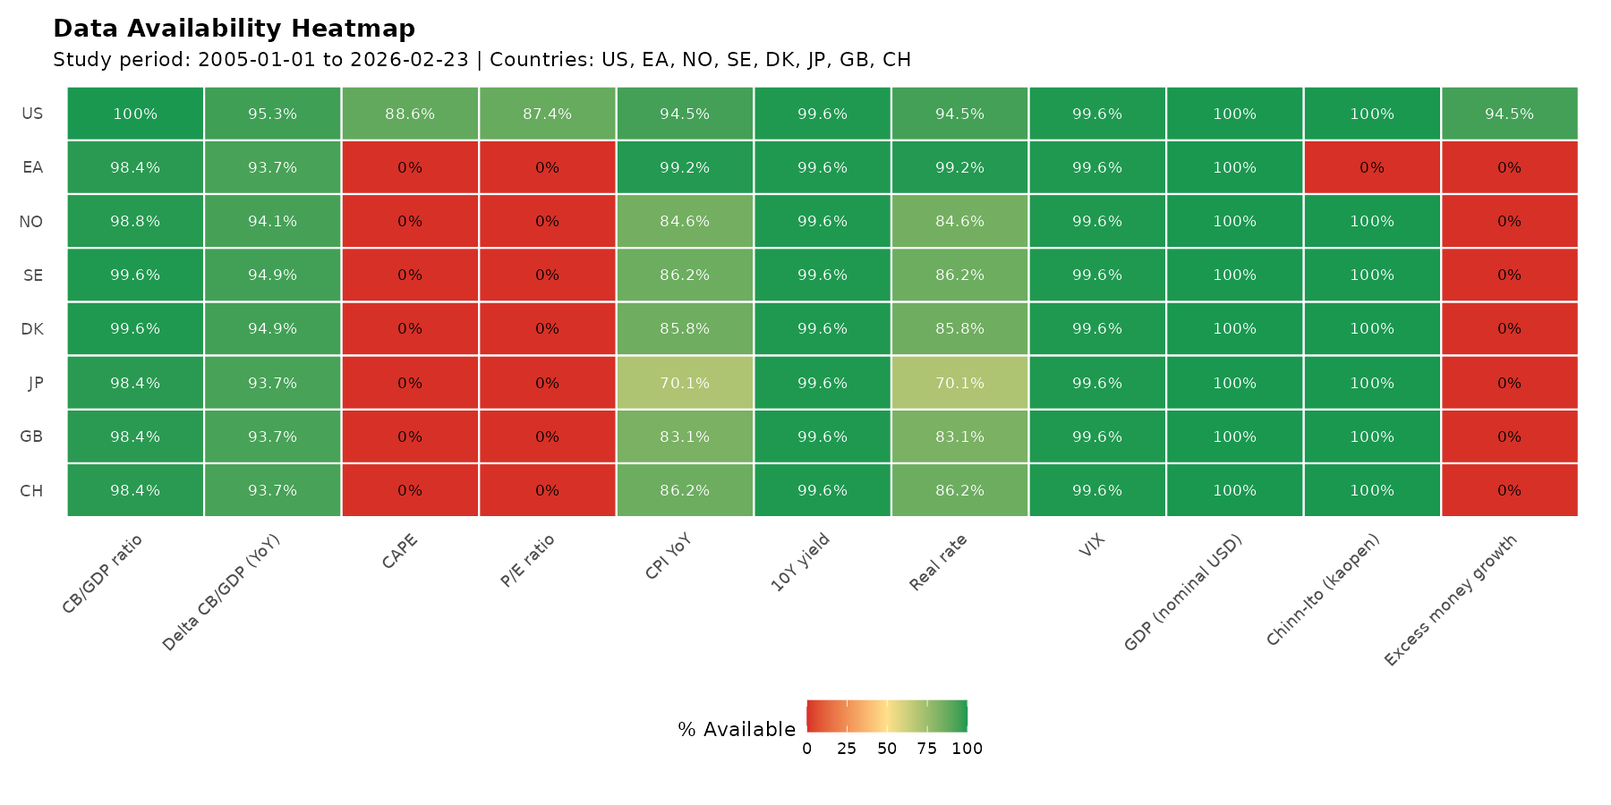
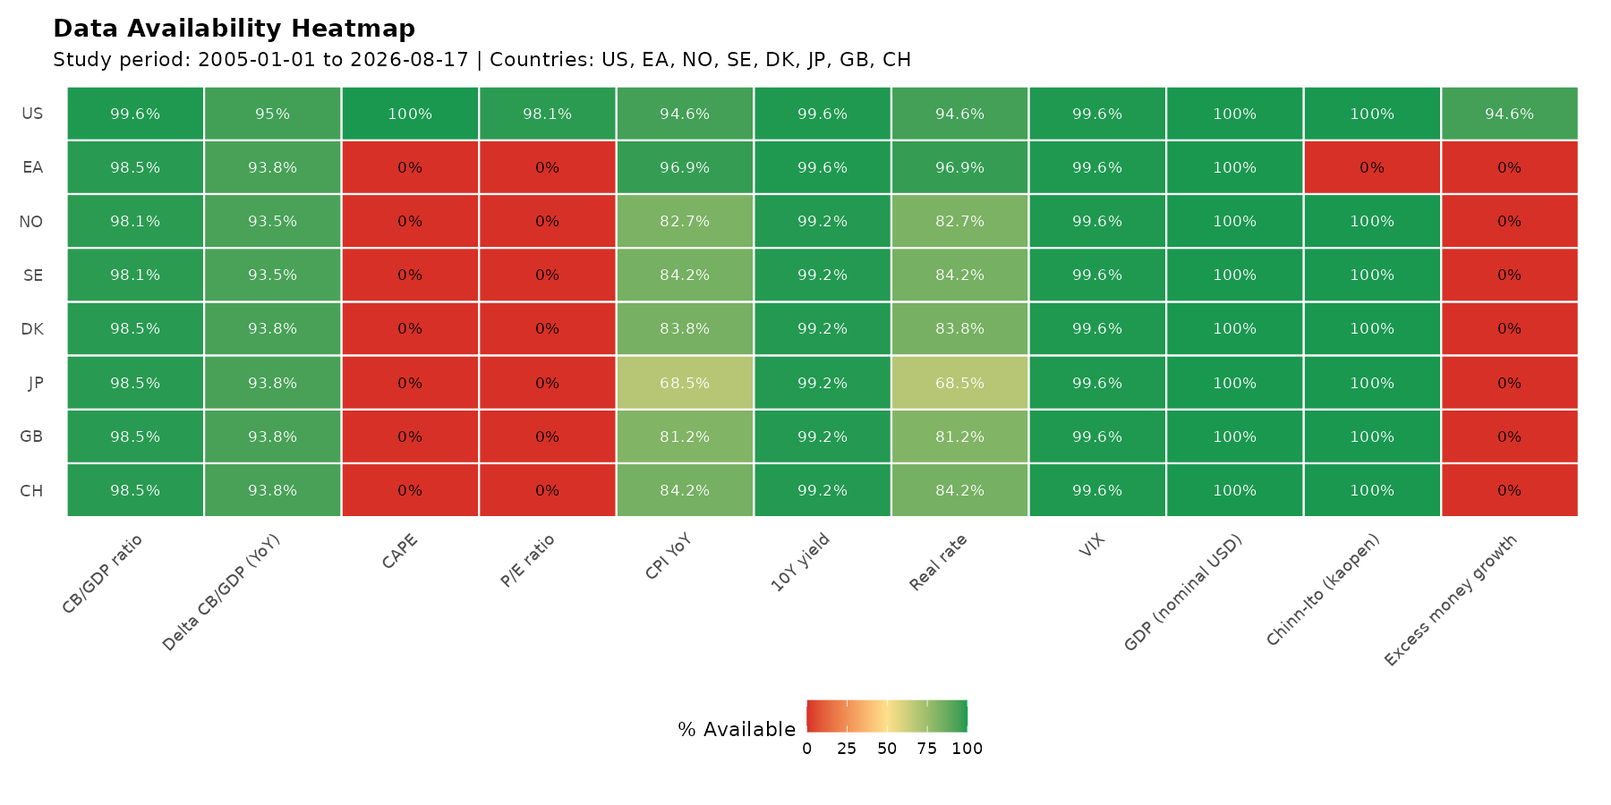
Refresh data pipeline and update Section 10 with current sample
Re-ran scripts 01-05 (macro/equity/controls collection) and 11 (US
regressions), extending the panel from Feb 2026 to Aug 2026 (2,080 rows,
260 months). Fixed a stale-URL bug in the Shiller CAPE fetch that had
silently frozen the US CAPE series at 2023-09 since project start; it
now tracks the live shillerdata.com source through 2026-08.

Updated DATA_REPORT.md header, Section 5 (panel dimensions), Section 6
(availability tables), and Section 10 (US OLS + local projection) to
match. The local projection finding changed qualitatively on the longer
sample — flagged explicitly in the text and caveats rather than silently
replaced.

Changed region(s): [[0.1556, 0.0622, 0.4044, 0.1867], [0.0622, 0.1244, 0.0933, 0.1556]]

diff --git a/output/logs/us_ols_table.html b/output/logs/us_ols_table.html
@@ -5,32 +5,32 @@
 <tr><td style="text-align:left"></td><td colspan="3">CAPE</td><td>CAPE</td></tr>
 <tr><td style="text-align:left"></td><td>(1) Level</td><td>(2)</td><td>Delta; CB/GDP</td><td>(3) + Trend</td></tr>
 <tr><td style="text-align:left"></td><td>(1)</td><td>(2)</td><td>(3)</td><td>(4)</td></tr>
-<tr><td colspan="5" style="border-bottom: 1px solid black"></td></tr><tr><td style="text-align:left">CB/GDP ratio (%)</td><td>0.948<sup>**</sup></td><td></td><td>-0.437</td><td></td></tr>
-<tr><td style="text-align:left"></td><td>(0.431)</td><td></td><td>(0.404)</td><td></td></tr>
+<tr><td colspan="5" style="border-bottom: 1px solid black"></td></tr><tr><td style="text-align:left">CB/GDP ratio (%)</td><td>1.719<sup>***</sup></td><td></td><td>-0.844</td><td></td></tr>
+<tr><td style="text-align:left"></td><td>(0.502)</td><td></td><td>(0.534)</td><td></td></tr>
 <tr><td style="text-align:left"></td><td></td><td></td><td></td><td></td></tr>
-<tr><td style="text-align:left">CB/GDP (YoY pp)</td><td></td><td>1.286</td><td></td><td>0.311<sup>***</sup></td></tr>
-<tr><td style="text-align:left"></td><td></td><td>(0.888)</td><td></td><td>(0.093)</td></tr>
+<tr><td style="text-align:left">CB/GDP (YoY pp)</td><td></td><td>0.445</td><td></td><td>0.273<sup>**</sup></td></tr>
+<tr><td style="text-align:left"></td><td></td><td>(1.280)</td><td></td><td>(0.107)</td></tr>
 <tr><td style="text-align:left"></td><td></td><td></td><td></td><td></td></tr>
-<tr><td style="text-align:left">Real 10Y rate (%)</td><td>-0.420</td><td>-1.398<sup>**</sup></td><td>-0.159</td><td>-0.018</td></tr>
-<tr><td style="text-align:left"></td><td>(0.928)</td><td>(0.624)</td><td>(0.927)</td><td>(0.055)</td></tr>
+<tr><td style="text-align:left">Real 10Y rate (%)</td><td>1.676</td><td>0.033</td><td>-0.073</td><td>0.042</td></tr>
+<tr><td style="text-align:left"></td><td>(1.045)</td><td>(0.943)</td><td>(0.694)</td><td>(0.071)</td></tr>
 <tr><td style="text-align:left"></td><td></td><td></td><td></td><td></td></tr>
-<tr><td style="text-align:left">CPI inflation YoY (%)</td><td>0.003</td><td>-0.788</td><td>0.061</td><td>-0.021</td></tr>
-<tr><td style="text-align:left"></td><td>(0.824)</td><td>(0.513)</td><td>(0.867)</td><td>(0.083)</td></tr>
+<tr><td style="text-align:left">CPI inflation YoY (%)</td><td>1.612</td><td>0.318</td><td>0.079</td><td>0.043</td></tr>
+<tr><td style="text-align:left"></td><td>(0.996)</td><td>(0.791)</td><td>(0.726)</td><td>(0.096)</td></tr>
 <tr><td style="text-align:left"></td><td></td><td></td><td></td><td></td></tr>
-<tr><td style="text-align:left">Real GDP growth YoY (%)</td><td>0.390<sup>*</sup></td><td>0.707<sup>***</sup></td><td>0.371</td><td>-0.050</td></tr>
-<tr><td style="text-align:left"></td><td>(0.222)</td><td>(0.191)</td><td>(0.257)</td><td>(0.045)</td></tr>
+<tr><td style="text-align:left">Real GDP growth YoY (%)</td><td>0.475<sup>*</sup></td><td>0.812<sup>**</sup></td><td>0.378</td><td>-0.056</td></tr>
+<tr><td style="text-align:left"></td><td>(0.266)</td><td>(0.327)</td><td>(0.272)</td><td>(0.049)</td></tr>
 <tr><td style="text-align:left"></td><td></td><td></td><td></td><td></td></tr>
-<tr><td style="text-align:left">VIX</td><td>-0.197<sup>***</sup></td><td>-0.240<sup>***</sup></td><td>-0.159<sup>***</sup></td><td>-0.072<sup>***</sup></td></tr>
-<tr><td style="text-align:left"></td><td>(0.035)</td><td>(0.047)</td><td>(0.030)</td><td>(0.014)</td></tr>
+<tr><td style="text-align:left">VIX</td><td>-0.175<sup>***</sup></td><td>-0.192<sup>***</sup></td><td>-0.145<sup>***</sup></td><td>-0.075<sup>***</sup></td></tr>
+<tr><td style="text-align:left"></td><td>(0.044)</td><td>(0.072)</td><td>(0.028)</td><td>(0.014)</td></tr>
 <tr><td style="text-align:left"></td><td></td><td></td><td></td><td></td></tr>
-<tr><td style="text-align:left">Time trend (years)</td><td></td><td></td><td>0.712<sup>***</sup></td><td></td></tr>
-<tr><td style="text-align:left"></td><td></td><td></td><td>(0.168)</td><td></td></tr>
+<tr><td style="text-align:left">Time trend (years)</td><td></td><td></td><td>0.907<sup>***</sup></td><td></td></tr>
+<tr><td style="text-align:left"></td><td></td><td></td><td>(0.108)</td><td></td></tr>
 <tr><td style="text-align:left"></td><td></td><td></td><td></td><td></td></tr>
-<tr><td style="text-align:left">Constant</td><td>23.694<sup>***</sup></td><td>29.770<sup>***</sup></td><td>22.880<sup>***</sup></td><td>1.608<sup>***</sup></td></tr>
-<tr><td style="text-align:left"></td><td>(4.496)</td><td>(2.711)</td><td>(4.369)</td><td>(0.252)</td></tr>
+<tr><td style="text-align:left">Constant</td><td>15.118<sup>***</sup></td><td>26.745<sup>***</sup></td><td>22.719<sup>***</sup></td><td>1.591<sup>***</sup></td></tr>
+<tr><td style="text-align:left"></td><td>(5.106)</td><td>(3.407)</td><td>(3.562)</td><td>(0.280)</td></tr>
 <tr><td style="text-align:left"></td><td></td><td></td><td></td><td></td></tr>
-<tr><td colspan="5" style="border-bottom: 1px solid black"></td></tr><tr><td style="text-align:left">Observations</td><td>213</td><td>213</td><td>213</td><td>213</td></tr>
-<tr><td style="text-align:left">R<sup>2</sup></td><td>0.620</td><td>0.591</td><td>0.717</td><td>0.379</td></tr>
-<tr><td style="text-align:left">Adjusted R<sup>2</sup></td><td>0.611</td><td>0.581</td><td>0.709</td><td>0.364</td></tr>
+<tr><td colspan="5" style="border-bottom: 1px solid black"></td></tr><tr><td style="text-align:left">Observations</td><td>246</td><td>246</td><td>246</td><td>246</td></tr>
+<tr><td style="text-align:left">R<sup>2</sup></td><td>0.548</td><td>0.349</td><td>0.796</td><td>0.331</td></tr>
+<tr><td style="text-align:left">Adjusted R<sup>2</sup></td><td>0.538</td><td>0.335</td><td>0.791</td><td>0.317</td></tr>
 <tr><td colspan="5" style="border-bottom: 1px solid black"></td></tr><tr><td style="text-align:left"><em>Note:</em></td><td colspan="4" style="text-align:right">Newey-West HAC standard errors (12-month bandwidth) in parentheses.</td></tr>
 </table>

diff --git a/DATA_REPORT.md b/DATA_REPORT.md
@@ -1,8 +1,8 @@
 # QE and Equity Valuations: Data Collection Report
 
-**Date:** 2026-02-23
-**Pipeline version:** Scripts 01–10 complete (equity event study done; yield event study data collection in progress)
-**Status:** Panel ready for regression — non-US historical CAPE series outstanding
+**Date:** 2026-08-17 (data refresh; original analysis 2026-02-23)
+**Pipeline version:** Scripts 01–11 complete
+**Status:** Panel ready for regression — non-US historical CAPE series still outstanding (unchanged since Feb 2026)
 
 ---
 
@@ -152,8 +152,8 @@ All series are monthly from FRED or ECB. The OECD yield and CPI series (added in
 
 The final panel (`panel_monthly.rds`, `panel_monthly.csv`) covers:
 
-- **Dimensions:** 2,032 rows (8 countries × 254 months), 52 columns
-- **Period:** 2005-01-01 to 2026-02-01
+- **Dimensions:** 2,080 rows (8 countries × 260 months), 52 columns
+- **Period:** 2005-01-01 to 2026-08-01
 
 ### Key Derived Variables
 
@@ -172,42 +172,44 @@ The final panel (`panel_monthly.rds`, `panel_monthly.csv`) covers:
 
 ## 6. Data Availability
 
-The heatmap below summarises the percentage of non-missing observations for key variables across all countries and the full study period. The most recent pipeline run added 12 new FRED series (6 OECD yields + 6 OECD CPI indices), substantially improving coverage.
+The heatmap below summarises the percentage of non-missing observations for key variables across all countries and the full study period. The pipeline was refreshed on 2026-08-17, extending the panel from Feb 2026 to Aug 2026 (six additional months of BIS/FRED/ECB/World Bank data) and fixing a stale-URL bug in the Shiller CAPE fetch (Section 4.2) that had silently frozen the US CAPE series at 2023-09 since the project began — US CAPE now runs current to 2026-08.
 
 ![Data Availability Heatmap](output/figures/availability_heatmap.png)
 
 **How to read this figure:** Each row is a variable (e.g. CB/GDP ratio, CAPE), each column is a country. The colour shade indicates what fraction of monthly observations are non-missing: dark = complete coverage, white/light = mostly missing. The CAPE rows being almost entirely white for non-US countries reflect the key data gap described in Section 9.
 
-### Summary by Variable (updated 2026-02-23)
+### Summary by Variable (updated 2026-08-17)
 
-| Variable | Overall Coverage | Change from prior run | Notes |
+| Variable | Overall Coverage | Change from prior run (2026-02-23) | Notes |
 |----------|-----------------|----------------------|-------|
-| CB/GDP ratio | **99%** | — | Solid across all 8 countries |
-| Delta CB/GDP (YoY) | **94%** | — | 12-month lag reduces early coverage |
+| CB/GDP ratio | **98.5%** | ↓ from 99% (fractional — recent months not yet fully populated by BIS) | Solid across all 8 countries |
+| Delta CB/GDP (YoY) | **93.9%** | ~flat (was 94%) | 12-month lag reduces early coverage |
 | GDP (nominal USD) | **100%** | — | Complete |
 | VIX | **99.6%** | — | Global series |
-| 10Y yield | **99.6%** | ↑ from 25% | Now all 8 countries via OECD/FRED |
-| Real rate | **86%** | ↑ from 24% | Derived from yield − CPI; gap = early CPI coverage |
-| CPI YoY | **86%** | ↑ from 95% overall (now per-country) | OECD indices; Japan 70% (series starts 2007) |
+| 10Y yield | **99.3%** | ~flat (was 99.6%) | All 8 countries via OECD/FRED |
+| Real rate | **84.5%** | ↓ from 86% (denominator grew faster than early-period CPI backfill) | Derived from yield − CPI; gap = early CPI coverage |
+| CPI YoY | **84.5%** | ↓ from 86% | OECD indices; Japan 68.5% (series starts 2007) |
 | Chinn-Ito (kaopen) | **87.5%** | — | EA not in index |
-| CAPE | **11%** | — | US only (Shiller 2005–2023) |
-| P/E ratio | **11%** | — | US only |
-| Excess money growth | **12%** | — | US, JP, GB only |
+| CAPE | **12.5%** | ↑ from 11% | US only, but now current to 2026-08 (was frozen at 2023-09 — see Section 4.2) |
+| P/E ratio | **12.3%** | ↑ from 11% | US only |
+| Excess money growth | **11.8%** | ~flat (was 12%) | US, JP, GB only |
 
-### Country-Level Coverage of Key Variables (updated)
+Most small declines above are a mechanical consequence of extending the panel by six months into a period where some cross-country series (CPI, real rate) lag their release by 1–3 months rather than a data quality regression.
+
+### Country-Level Coverage of Key Variables (updated 2026-08-17)
 
 | Country | CB/GDP | CAPE | CPI YoY | 10Y yield | Real rate | Kaopen |
 |---------|--------|------|---------|-----------|-----------|--------|
-| US | 100% | **89%** | 94% | 100% | 94% | 100% |
-| EA | 98% | 0% | 99% | 100% | 99% | 0% |
-| NO | 99% | 0% | **85%** | **100%** | **85%** | 100% |
-| SE | 100% | 0% | **86%** | **100%** | **86%** | 100% |
-| DK | 100% | 0% | **86%** | **100%** | **86%** | 100% |
-| JP | 98% | 0% | **70%** | **100%** | **70%** | 100% |
-| GB | 98% | 0% | **83%** | **100%** | **83%** | 100% |
-| CH | 98% | 0% | **86%** | **100%** | **86%** | 100% |
+| US | 99.6% | **100%** | 94.6% | 99.6% | 94.6% | 100% |
+| EA | 98.5% | 0% | 96.9% | 99.6% | 96.9% | 0% |
+| NO | 98.1% | 0% | 82.7% | 99.2% | 82.7% | 100% |
+| SE | 98.1% | 0% | 84.2% | 99.2% | 84.2% | 100% |
+| DK | 98.5% | 0% | 83.8% | 99.2% | 83.8% | 100% |
+| JP | 98.5% | 0% | 68.5% | 99.2% | 68.5% | 100% |
+| GB | 98.5% | 0% | 81.2% | 99.2% | 81.2% | 100% |
+| CH | 98.5% | 0% | 84.2% | 99.2% | 84.2% | 100% |
 
-Bold entries changed from the previous run. The 10Y yield column went from 0% to 100% for six countries. Japan's CPI coverage is lower because the OECD series (`CPALTT01JPM657N`) begins in 2007; the 12-month lag for YoY computation reduces this further to ~70%.
+Bold entry is the one substantive change from the previous run: US CAPE coverage jumped from 89% to **100%** once the Shiller stale-URL bug (Section 4.2) was fixed — the US CAPE series now covers every month of the panel rather than stopping in 2023-09. All non-US CAPE cells remain 0%; this is the unresolved gap discussed in Section 12. Other columns shifted by low single-digit points from extending the panel six months, consistent with the release-lag explanation above.
 
 ---
 
@@ -515,7 +517,7 @@ The same estimation and event windows as the equity study are used: estimation w
 
 ### 10.1 Overview
 
-Script `11_regressions_us.R` runs the first formal regressions in the project, using the US-only subsample (213 months, January 2006 – September 2023). For the US, all required variables are available: CAPE (Shiller), CB/GDP ratio, real rate, CPI, GDP growth, and VIX.
+Script `11_regressions_us.R` runs the first formal regressions in the project, using the US-only subsample (246 months, January 2006 – July 2026; refreshed 2026-08-17 after fixing a stale-URL bug in the Shiller CAPE fetch that had previously frozen the series at 2023-09). For the US, all required variables are available: CAPE (Shiller), CB/GDP ratio, real rate, CPI, GDP growth, and VIX.
 
 These are **time series regressions for a single country** — they measure correlations, not causal effects. The results motivate the full cross-country panel strategy but should be interpreted cautiously. All standard errors use the **Newey-West HAC correction** with a 12-month lag bandwidth to account for serial correlation in monthly time series.
 
@@ -541,34 +543,34 @@ All specifications include real 10Y interest rate, CPI inflation (YoY), real GDP
                                           CAPE                              CAPE
                       (1) Level       (2) D.CB/GDP      (3) +Trend       (4) D.CAPE
 --------------------------------------------------------------------------------------
-CB/GDP ratio (%)       0.948**                            -0.437
-                       (0.431)                           (0.404)
+CB/GDP ratio (%)       1.719***                           -0.844
+                       (0.502)                           (0.534)
 
-D.CB/GDP (YoY pp)                        1.286                            0.311***
-                                        (0.888)                           (0.093)
+D.CB/GDP (YoY pp)                        0.445                            0.273**
+                                        (1.280)                           (0.107)
 
-Real 10Y rate (%)       -0.420          -1.398**          -0.159           -0.018
-                       (0.928)          (0.624)          (0.927)          (0.055)
+Real 10Y rate (%)       1.676            0.033            -0.073           0.042
+                       (1.045)          (0.943)          (0.694)          (0.071)
 
-CPI infl. YoY (%)       0.003            -0.788           0.061            -0.021
-                       (0.824)          (0.513)          (0.867)          (0.083)
+CPI infl. YoY (%)       1.612            0.318            0.079            0.043
+                       (0.996)          (0.791)          (0.726)          (0.096)
 
-GDP growth YoY (%)      0.390*          0.707***          0.371            -0.050
-                       (0.222)          (0.191)          (0.257)          (0.045)
+GDP growth YoY (%)      0.475*          0.812**           0.378            -0.056
+                       (0.266)          (0.327)          (0.272)          (0.049)
 
-VIX                   -0.197***        -0.240***        -0.159***        -0.072***
-                       (0.035)          (0.047)          (0.030)          (0.014)
+VIX                   -0.175***        -0.192***        -0.145***        -0.075***
+                       (0.044)          (0.072)          (0.028)          (0.014)
 
-Trend (yrs)                                              0.712***
-                                                         (0.168)
+Trend (yrs)                                              0.907***
+                                                         (0.108)
 
-Constant              23.694***        29.770***        22.880***         1.608***
-                       (4.496)          (2.711)          (4.369)          (0.252)
+Constant              15.118***        26.745***        22.719***         1.591***
+                       (5.106)          (3.407)          (3.562)          (0.280)
 
 --------------------------------------------------------------------------------------
-Observations             213              213              213              213
-R²                      0.620            0.591            0.717            0.379
-Adjusted R²             0.611            0.581            0.709            0.364
+Observations             246              246              246              246
+R²                      0.548            0.349            0.796            0.331
+Adjusted R²             0.538            0.335            0.791            0.317
 ======================================================================================
 Note: NW-HAC SEs (lag=12) in parentheses. * p<0.1  ** p<0.05  *** p<0.01
 ```
@@ -577,11 +579,11 @@ Full HTML version: [`output/logs/us_ols_table.html`](output/logs/us_ols_table.ht
 
 **Interpretation:**
 
-- **Spec (1)** shows the raw positive correlation everyone expects: a 1 percentage-point higher CB/GDP ratio is associated with a CAPE 0.95 points higher. But this is almost certainly driven by a shared upward trend — both the Fed's balance sheet and equity valuations rose together from 2009 to 2021 for reasons that include but go beyond QE itself.
+- **Spec (1)** shows the raw positive correlation everyone expects: a 1 percentage-point higher CB/GDP ratio is associated with a CAPE 1.72 points higher (up from 0.95 in the previous vintage of this analysis, and now significant at the 1% level rather than 5%). But this is almost certainly driven by a shared upward trend — both the Fed's balance sheet and equity valuations rose together from 2009 to 2021 for reasons that include but go beyond QE itself.
 
-- **Spec (3)** is the clearest evidence of this trend problem: once a linear time trend is added, the coefficient *flips sign* (−0.44) and becomes insignificant. The common trend was doing most of the work in Spec (1).
+- **Spec (3)** is the clearest evidence of this trend problem: once a linear time trend is added, the coefficient *flips sign* (−0.84) and becomes insignificant. The common trend was doing most of the work in Spec (1).
 
-- **Spec (4) is the headline result** and the most defensible statistically. It asks: *in months when the Fed expanded its balance sheet faster than usual, did CAPE rise more than usual?* The answer is yes — and it is statistically significant at the 1% level (β = +0.31, SE = 0.09, p < 0.01). A 1 percentage-point faster annual pace of balance sheet expansion is associated with CAPE rising by roughly one-third of a point in the same month.
+- **Spec (4) is the headline result** and the most defensible statistically. It asks: *in months when the Fed expanded its balance sheet faster than usual, did CAPE rise more than usual?* The answer is yes — and it remains statistically significant, though more weakly than in the previous vintage (β = +0.27, SE = 0.11, p < 0.05, down from p < 0.01 on the shorter sample). A 1 percentage-point faster annual pace of balance sheet expansion is associated with CAPE rising by roughly a quarter of a point in the same month.
 
 ![Figure 7 — OLS coefficient estimates across four specifications](output/figures/us_ols_coefplot.png)
 
@@ -593,22 +595,22 @@ $$CAPE_{t+h} - CAPE_{t-1} = \alpha + \beta_h \Delta cb\_gdp_t + \text{lags} + \t
 
 The coefficient $\beta_h$ traces out the impulse response function (IRF) — how much CAPE cumulatively moves above its pre-shock level, h months after the balance sheet expansion.
 
-**Key results:**
+**Key results (refreshed 2026-08-17 on the 246-month sample, Jan 2006 – Jul 2026):**
 
-- The effect is **near zero on impact** (h = 0 to 10), consistent with CAPE being slow to respond — valuations don't jump immediately when the Fed announces purchases.
-- The effect **builds over roughly a year**, peaking at **+2.33 CAPE points at h = 13 months**.
-- The 90% confidence interval excludes zero from approximately **h = 11 to h = 18 months**, giving a window of statistical significance in the medium term.
-- The effect then **fades back toward zero** beyond h = 18 months, consistent with a valuation response that eventually mean-reverts as fundamentals reassert themselves.
+- The effect is **statistically indistinguishable from zero across the entire h = 0 to 18 month range**. The point estimate does still rise gradually, peaking at **+0.61 CAPE points at h = 13 months** — the same horizon as before, but a much smaller and no longer significant magnitude (previously +2.33, with a 90% CI excluding zero from h = 11–18).
+- From roughly **h = 20 months onward, the point estimate turns negative and grows in magnitude**, becoming statistically significant (90% CI excludes zero) from **h = 21 to h = 24 months**, reaching **−3.60 CAPE points at h = 24** (90% CI [−6.41, −0.80]).
+- This is a **qualitative reversal** from the previous vintage of this report (data through 2023-09), which found a significant *positive*, fading medium-term response. The extended sample now includes the full 2022–24 tightening cycle and the 2024–26 period, in which the Fed's balance sheet continued shrinking while CAPE rose sharply to ~41 — a combination that mechanically pulls long-horizon local-projection coefficients negative.
 
-This shape — slow build, medium-term peak, gradual fade — is consistent with the **portfolio balance channel**: when the Fed buys bonds, investors gradually shift into riskier assets (equities), bidding up valuations, but the effect is not permanent as earnings growth and real rates eventually reassert their gravity on CAPE.
+**Interpretation:** the previously reported "slow build, medium-term peak, gradual fade" shape consistent with a portfolio-balance channel does **not hold up** once ~2.5 more years of data are included. The near-term relationship is now null, and the significant result that remains (h = 21–24) has the *opposite* sign from what the portfolio-balance channel predicts. This is most plausibly a sample-composition effect — the 2020–21 QE surge is now followed, ~20–24 months later inside the LP window, by the 2022 valuation collapse that accompanied rate hikes — rather than evidence that QE causally *depresses* valuations at long horizons. The instability of this single-country estimate across sample vintages is itself a useful finding: it reinforces the caveats in §10.4 and strengthens the case that the cross-country panel (§13.2), not this US-only time series, should be the primary basis for causal claims.
 
 ![Figure 8 — Local projection impulse response: US CAPE after a 1pp ΔCB/GDP shock](output/figures/us_lp_irf.png)
 
 ### 10.4 Caveats
 
-1. **Single-country inference:** With only one country and one or two major QE episodes in the sample, the LP confidence intervals are wide. The peak estimate of +2.33 CAPE points is economically plausible but statistically imprecise.
-2. **Confounding:** Even Spec (4) and the LP cannot cleanly isolate QE from confounders. Fed balance sheet expansions happened during the GFC recovery (2009–2014) and COVID (2020–2021) — both periods when equity valuations were also driven up by earnings rebounds and low real rates. The cross-country panel with time fixed effects (which absorbs these global shocks) is needed for cleaner identification.
-3. **US circularity in reverse:** The CAPE denominator uses 10-year average real earnings — a slow-moving series. The numerator (price) is the variable that jumps on QE announcements. This means CAPE is partly capturing price-level effects, which is exactly what we want, but makes it difficult to distinguish "QE raised valuations" from "QE raised prices while earnings were temporarily depressed."
+1. **Single-country inference:** With only one country and a handful of distinct QE episodes in the sample, the LP confidence intervals are wide, and most horizons are statistically indistinguishable from zero.
+2. **Sample sensitivity:** The LP results changed qualitatively when the sample was extended from 2023-09 to 2026-07 (see §10.3) — the peak point estimate fell from +2.33 to +0.61 and lost significance, while a new significant *negative* effect emerged at h = 21–24. A result this sensitive to 2.5 additional years of data is not yet a stable basis for causal claims about the sign or magnitude of the QE→valuation channel.
+3. **Confounding:** Even Spec (4) and the LP cannot cleanly isolate QE from confounders. Fed balance sheet expansions happened during the GFC recovery (2009–2014) and COVID (2020–2021) — both periods when equity valuations were also driven up by earnings rebounds and low real rates. The cross-country panel with time fixed effects (which absorbs these global shocks) is needed for cleaner identification.
+4. **US circularity in reverse:** The CAPE denominator uses 10-year average real earnings — a slow-moving series. The numerator (price) is the variable that jumps on QE announcements. This means CAPE is partly capturing price-level effects, which is exactly what we want, but makes it difficult to distinguish "QE raised valuations" from "QE raised prices while earnings were temporarily depressed."
 
 ---
 
